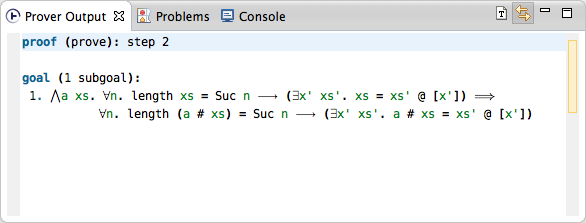
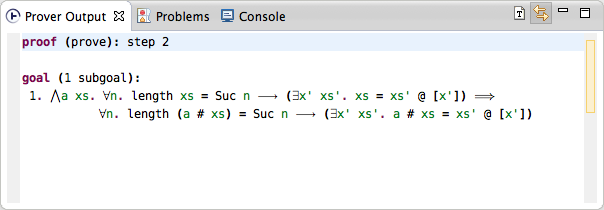
tracing output docs

Changed region(s): [[0.0307, 0.3143, 0.9215, 0.5714], [0.0, 0.0, 1.0, 0.5429]]

diff --git a/isabelle.eclipse.doc/src-docs/markdown/features/prover-output.md b/isabelle.eclipse.doc/src-docs/markdown/features/prover-output.md
@@ -9,3 +9,19 @@ If the proof has been successful, the output view displays outstanding goals or 
 The prover output view features syntax highlighting, [rich tooltips](tooltips.html) and [hyperlinks to definitions](go-to-definition.html) just like the main editor.
 
 Normally the prover output follows the command selection in the editor. To disable that temporarily (e.g. to keep the prover output while browsing a theory), toggle the **Link with Editor** button ![Link with Editor](../images/synced.gif).
+
+
+## Prover tracing output
+
+To view detailed information about proof trace, you can enable prover tracing using various Isabelle commands (refer to Isabelle documentation for details). For example, to enable _simplifier_ tracing, add the following statement to your theory file:
+
+    declare [[simp_trace]]
+
+This will enable simplifier tracing for everything below the declaration.
+
+Use the prover output to view this tracing information. To control whether tracing information is displayed in the output view, use the **Show Proof Trace** button ![Show Proof Trace](../images/show_trace.gif).
+
+![Isabelle prover output - tracing](../images/prover-output-view-tracing.png)
+
+
+If tracing messages exceed a limit, they are paused and a message "Tracing paused.  Stop, or continue with next 100, 1000, 10000 messages?" is displayed. Select one of the options or adjust the default limit in _\<ISABELLE\_HOME\>/etc/options_, value `editor_tracing_messages`.
